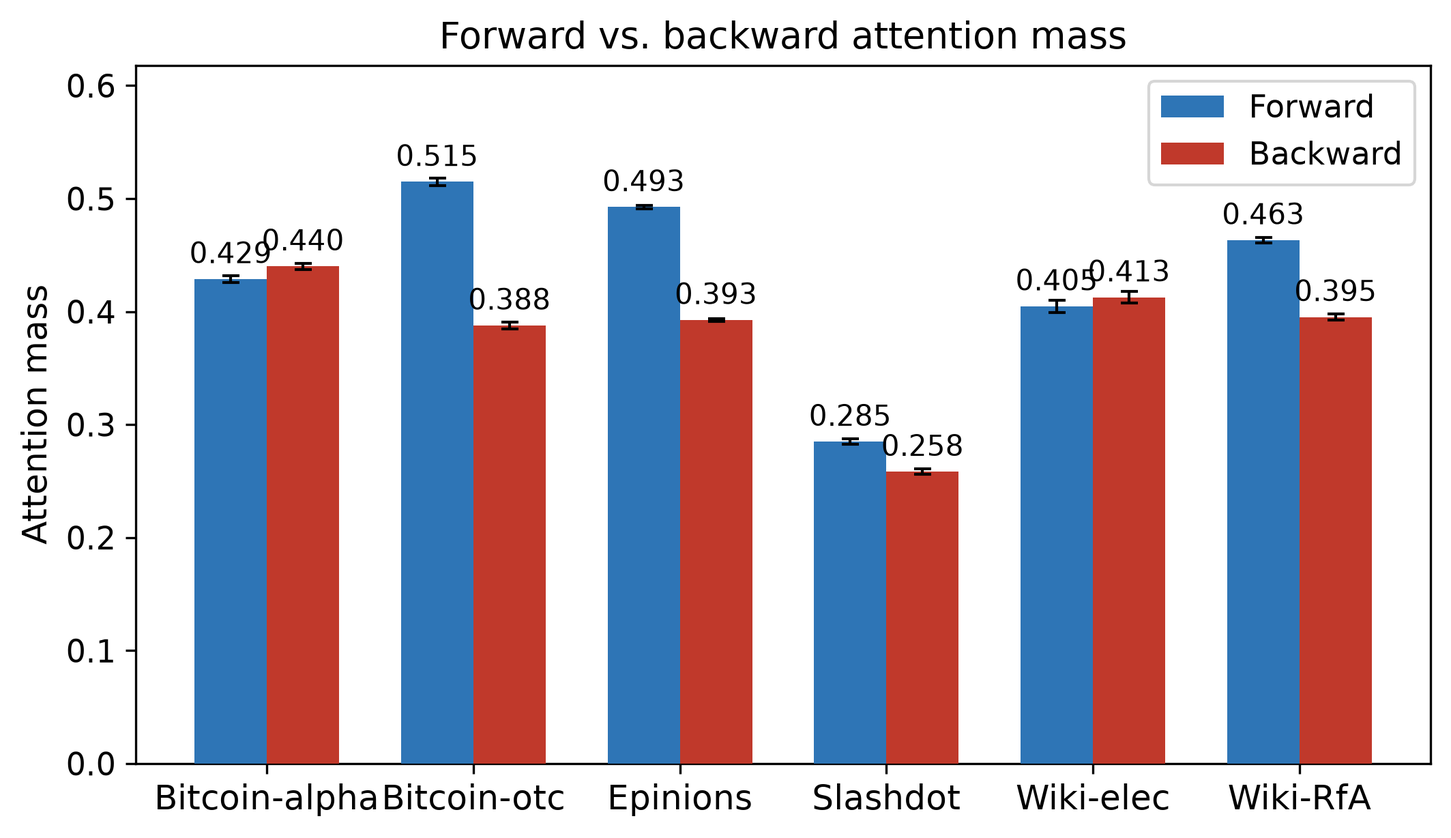
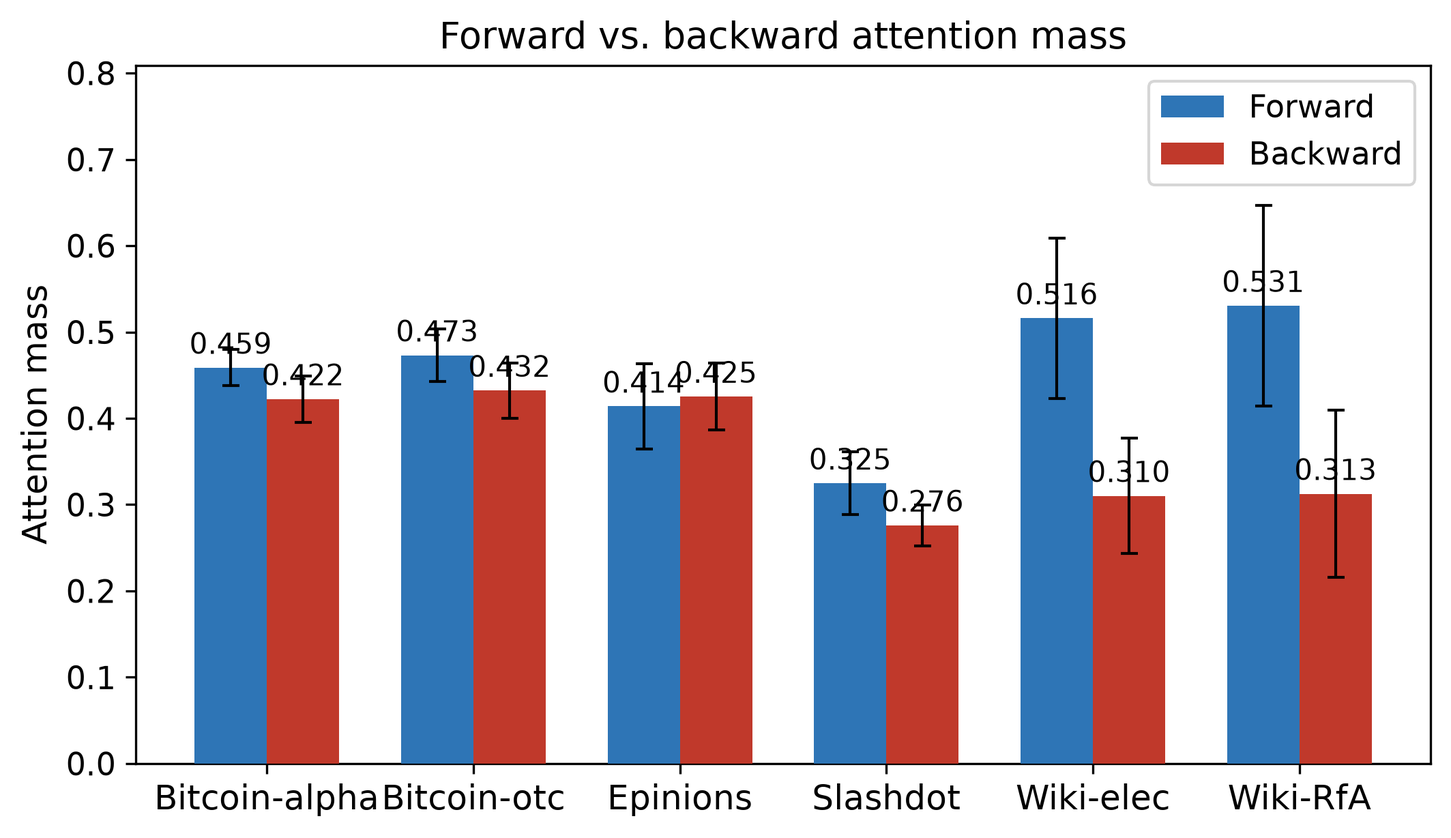
thesis

diff --git a/thesis/thesis.tex b/thesis/thesis.tex
@@ -256,11 +256,11 @@ A per-vertex paired test of a vertex's own out-edge entropy $\Hh_\outdeg(v)$ (it
 
 \subsection{Pewter consistently outperforms baselines}
 
-Pewter treats edge-sign prediction as a per-walk classification task, not a per-vertex embedding lookup. For a target edge, we sample many directed walks through it, tokenize each walk as an alternating sequence of vertex and edge-sign tokens, hide the target edge's sign, and score it with a Transformer trained to recover the hidden sign from the surrounding walk context (Figure~\ref{fig:pipeline-schematic}, Stage 1). Because a given edge typically appears in many sampled walks, this yields multiple per-walk probability estimates for the same edge, which a validation-tuned confidence-weighted vote pools into one edge-level prediction (Figure~\ref{fig:pipeline-schematic}, Stage 2). We evaluate two attention variants over the walk, full and local (\S\ref{sec:methods}), and report each dataset's variant with the higher \emph{validation} AUC (selected before test-set evaluation). Unlike the vertex-centric baselines below, every prediction is conditioned directly on nearby edge signs, not only on the two endpoints' learned representations.
+Pewter treats edge-sign prediction as a per-walk classification task, not a per-vertex embedding lookup. For a target edge, we sample many directed walks through it, tokenize each walk as an alternating sequence of vertex and edge tokens, hide the target edge's sign and identity, and score it with a Transformer trained to recover the hidden sign from the surrounding walk context (Figure~\ref{fig:pipeline-schematic}, Stage 1). Because a given edge typically appears in many sampled walks, this yields multiple per-walk probability estimates for the same edge, which a validation-tuned confidence-weighted vote pools into one edge-level prediction (Figure~\ref{fig:pipeline-schematic}, Stage 2). We evaluate two attention variants over the walk, full and local (\S\ref{sec:methods}), and report local attention, the default variant, as the headline comparison. Unlike the vertex-centric baselines below, every prediction is conditioned directly on nearby vertices and edges, not only on the two endpoints' learned representations.
 
 We compare against eight baselines on the same six datasets and the same held-out edges: two generic message-passing GNNs that ignore edge sign (GCN, GAT), four signed-graph-specific GNNs (SGCN, SiGAT, GS-GNN, SNEA), a recent correlation-modeling method (CopulaLSP), and node2vec as a non-GNN, sign-agnostic reference point (full citations in \S\ref{sec:methods}).
 
-Pewter has a higher test AUC than the best baseline on all six datasets, under both attention variants (Table~\ref{tab:result1}), by a mean of $+3.3$ AUC points and a range of $+1.4$ (Wiki-elec, Wiki-RfA) to $+4.5$ (Epinions) points, comparing each dataset's best Pewter variant against its best baseline; a one-sided paired Wilcoxon signed-rank test across the 10 splits confirms Pewter wins on all 10 splits on every dataset ($p=0.00098$ throughout).
+Pewter has a higher test AUC than the best baseline on all six datasets, under both attention variants (Table~\ref{tab:result1}), by a mean of $+3.3$ AUC points and a range of $+0.9$ (Wiki-elec) to $+4.8$ (Bitcoin-alpha) points, comparing local attention against each dataset's best baseline; a one-sided paired Wilcoxon signed-rank test across the 10 splits confirms Pewter wins on all 10 splits on every dataset ($p=0.00098$ throughout).
 
 \begin{table*}[t!]
 \centering
@@ -285,8 +285,8 @@ GS-GNN & $0.856_{\pm.014}$ & $\mathit{0.721_{\pm.037}}$ & $0.883_{\pm.011}$ & $0
 SNEA & $0.871_{\pm.014}$ & $0.702_{\pm.014}$ & $0.890_{\pm.017}$ & $0.743_{\pm.016}$ & $0.817_{\pm.004}$ & $0.776_{\pm.002}$ & $0.871_{\pm.006}$ & $0.743_{\pm.007}$ & $0.864_{\pm.004}$ & $0.733_{\pm.004}$ & $0.798_{\pm.003}$ & $0.676_{\pm.002}$ \\
 CopulaLSP & $0.848_{\pm.018}$ & $0.711_{\pm.042}$ & $0.856_{\pm.018}$ & $0.770_{\pm.032}$ & $0.857_{\pm.003}$ & $0.782_{\pm.002}$ & $0.868_{\pm.006}$ & $0.740_{\pm.006}$ & $0.843_{\pm.013}$ & $0.706_{\pm.011}$ & $0.813_{\pm.007}$ & $0.701_{\pm.007}$ \\
 \midrule
-Pewter (full attention) & $\mathbf{0.915_{\pm.010}}$ & $0.712_{\pm.015}$ & $\mathit{0.931_{\pm.007}}$ & $\mathit{0.780_{\pm.012}}$ & $\mathit{0.952_{\pm.001}}$ & $\mathit{0.851_{\pm.003}}$ & $\mathit{0.901_{\pm.003}}$ & $\mathit{0.772_{\pm.004}}$ & $\mathbf{0.892_{\pm.003}}$ & $\mathbf{0.758_{\pm.006}}$ & $\mathbf{0.899_{\pm.002}}$ & $\mathit{0.772_{\pm.004}}$ \\
-Pewter (local attention) & $\mathit{0.913_{\pm.017}}$ & $\mathbf{0.759_{\pm.025}}$ & $\mathbf{0.932_{\pm.007}}$ & $\mathbf{0.813_{\pm.014}}$ & $\mathbf{0.954_{\pm.002}}$ & $\mathbf{0.853_{\pm.003}}$ & $\mathbf{0.902_{\pm.003}}$ & $\mathbf{0.775_{\pm.003}}$ & $\mathit{0.891_{\pm.005}}$ & $\mathit{0.758_{\pm.007}}$ & $\mathit{0.897_{\pm.002}}$ & $\mathbf{0.772_{\pm.004}}$ \\
+Pewter (full attention) & $\mathit{0.916_{\pm.014}}$ & $0.708_{\pm.018}$ & $\mathit{0.931_{\pm.008}}$ & $\mathit{0.776_{\pm.007}}$ & $\mathit{0.950_{\pm.002}}$ & $\mathit{0.850_{\pm.006}}$ & $\mathit{0.897_{\pm.004}}$ & $\mathit{0.769_{\pm.005}}$ & $\mathbf{0.893_{\pm.003}}$ & $\mathit{0.758_{\pm.005}}$ & $\mathbf{0.899_{\pm.002}}$ & $\mathit{0.772_{\pm.006}}$ \\
+Pewter (local attention) & $\mathbf{0.919_{\pm.016}}$ & $\mathbf{0.756_{\pm.017}}$ & $\mathbf{0.936_{\pm.006}}$ & $\mathbf{0.813_{\pm.009}}$ & $\mathbf{0.953_{\pm.002}}$ & $\mathbf{0.850_{\pm.005}}$ & $\mathbf{0.898_{\pm.004}}$ & $\mathbf{0.771_{\pm.006}}$ & $\mathit{0.892_{\pm.002}}$ & $\mathbf{0.759_{\pm.004}}$ & $\mathit{0.896_{\pm.002}}$ & $\mathbf{0.773_{\pm.006}}$ \\
 \bottomrule
 \end{tabular}
 \renewcommand{\arraystretch}{1.0}
@@ -308,7 +308,7 @@ We stratified the test edges of each dataset by endpoint entropy, in the same so
 \refstepcounter{ablation}
 \paragraph{\theablation) Proximal attention is sufficient.}
 \label{abl:proximal}
-Restricting attention to a $\pm2$-hop window matches or beats full attention on three of six datasets (Bitcoin-otc $+0.02$pp, Epinions $+0.13$pp, Wiki-elec $+0.15$pp) and trails on the other three (Bitcoin-alpha $-0.12$pp, Wiki-RfA $-0.09$pp, Slashdot $-0.21$pp); both variants appear in Table~\ref{tab:result1}. A two-sided paired Wilcoxon signed-rank test across the 10 splits finds the difference statistically significant on three of six datasets (Epinions $p=0.027$, Wiki-elec $p=0.049$, Slashdot $p=0.002$; not significant on Bitcoin-alpha, Bitcoin-otc, Wiki-RfA), but every one of these differences, significant or not, stays under $0.2$pp -- an order of magnitude below the split-to-split std. The practical reading does not change: local attention costs less than 0.002 in AUC while restricting the per-walk attention computation to a $\pm2$-hop window (\S\ref{sec:complexity}), so it is the better default regardless of which variant happens to win on a given dataset. A direct check finds that target edges have a signed neighbor edge inside their attention window most of the time on all six datasets (Bitcoin-alpha $90.6\%$, Bitcoin-otc $89.2\%$, Epinions $84.6\%$, Slashdot $81.4\%$, Wiki-elec $74.9\%$, Wiki-RfA $87.9\%$), so the window captures real local context rather than an empty span; the lowest rate, on Wiki-elec, still leaves the window empty only when the walk itself runs out of visible context to offer.
+Restricting attention to a $\pm2$-hop window matches or beats full attention on four of six datasets (Bitcoin-alpha $+0.32$pp, Bitcoin-otc $+0.46$pp, Epinions $+0.36$pp, Wiki-elec $+0.04$pp) and trails on the other two (Wiki-RfA $-0.07$pp, Slashdot $-0.27$pp); both variants appear in Table~\ref{tab:result1}. A two-sided paired Wilcoxon signed-rank test across the 10 splits finds the difference statistically significant on three of six datasets (Bitcoin-otc $p=0.002$, Epinions $p=0.010$, Slashdot $p=0.010$; not significant on Bitcoin-alpha, Wiki-elec, Wiki-RfA), but every one of these differences, significant or not, stays under $0.5$pp. The practical reading does not change: local attention costs at most 0.003 in AUC while restricting the per-walk attention computation to a $\pm2$-hop window (\S\ref{sec:complexity}), so it is the better default regardless of which variant happens to win on a given dataset. A direct check finds that target edges have a signed neighbor edge inside their attention window most of the time on all six datasets (Bitcoin-alpha $90.6\%$, Bitcoin-otc $89.2\%$, Epinions $84.6\%$, Slashdot $81.4\%$, Wiki-elec $74.9\%$, Wiki-RfA $87.9\%$), so the window captures real local context rather than an empty span; the lowest rate, on Wiki-elec, still leaves the window empty only when the walk itself runs out of visible context to offer.
 
 % Dropped for submission (2026-08-23): the two token-masking ablations (removing the
 % vertex token / removing the edge token) are commented out, not deleted -- restore by
@@ -328,17 +328,50 @@ Restricting attention to a $\pm2$-hop window matches or beats full attention on 
 \refstepcounter{ablation}
 \paragraph{\theablation) The aggregator weighting is nearly irrelevant.}
 \label{abl:aggregator}
-We compare the confidence weighting against 11 alternatives depending only on $q$, including the uniform mean, log-probability, certainty, Bernoulli-entropy and Fisher-information/inverse-variance forms (Table~\ref{tab:ablationB}). Across all 11 functions on all 6 datasets the full spread is under $0.0018$ AUC -- an order of magnitude below the split-to-split std -- and the Fisher-information form is best on Epinions and Slashdot rather than our default. We report this as a null result: the gain of Pewter comes from the per-walk edge-centric representation, not from how the walks are pooled, and the aggregator should be treated as a design detail rather than as a contribution.
+We compare the confidence weighting against 11 alternatives depending only on $q$, including the uniform mean, log-probability, certainty, Bernoulli-entropy and Fisher-information/inverse-variance forms (Table~\ref{tab:ablationB}). Across all 11 functions on all 6 datasets the full spread is under $0.0025$ AUC, and the Fisher-information form is best on Epinions, Wiki-elec, Wiki-RfA and Slashdot rather than our default. We report this as a null result: the gain of Pewter comes from the per-walk edge-centric representation, not from how the walks are pooled, and the aggregator should be treated as a design detail rather than as a contribution.
 
 \refstepcounter{ablation}
 \paragraph{\theablation) A single walk is already enough.}
 \label{abl:singlewalk}
-A given edge is scored by aggregating over hundreds to thousands of walk occurrences, raising a natural objection: is the reported gain just ensembling? We recompute test AUC as a function of $K$, the number of walk occurrences sampled per edge (uniform mean over $K$ occurrences drawn at random without replacement, mean $\pm$ std over the same 10 splits), sweeping $K=1,2,4,\ldots$ up to each dataset's own saturation point. A single sampled walk already outperforms the strongest baseline on all six datasets, while performance generally saturates after approximately 8--32 walks. Thus, the improvement does not depend on a large walk ensemble (Table~\ref{tab:result1}).  rises only slightly and quickly plateaus: the gap between $K=1$ and the saturated ceiling is under $1$pp on every dataset. The representation, not the ensembling, carries the result; aggregating over more walk occurrences is a small, genuine, but secondary gain. The number of walk occurrences $K_{uv}$ available to aggregate over varies by edge and by dataset, averaging $5.8$ on Wiki-elec, $13.4$ on Epinions, $13.5$ on Wiki-RfA, $35.1$ on Slashdot, $179.6$ on Bitcoin-otc, and $217.6$ on Bitcoin-alpha.
+A given edge is scored by aggregating over hundreds to thousands of walk occurrences, raising a natural objection: is the reported gain just ensembling? We recompute test AUC as a function of $K$, the number of walk occurrences sampled per edge (uniform mean over $K$ occurrences drawn at random without replacement, mean $\pm$ std over the same 10 splits), sweeping $K=1,2,4,\ldots$ up to each dataset's own saturation point. A single sampled walk already outperforms the strongest baseline on all six datasets, while performance generally saturates after approximately 8--32 walks. Thus, the improvement does not depend on a large walk ensemble (Table~\ref{tab:result1}). AUC rises only slightly and quickly plateaus: the gap between $K=1$ and the saturated ceiling is under $1.3$pp on every dataset. The representation, not the ensembling, carries the result; aggregating over more walk occurrences is a small, genuine, but secondary gain. The number of walk occurrences $K_{uv}$ available to aggregate over varies by edge and by dataset, averaging $5.8$ on Wiki-elec, $13.4$ on Epinions, $13.5$ on Wiki-RfA, $35.1$ on Slashdot, $179.6$ on Bitcoin-otc, and $217.6$ on Bitcoin-alpha.
 
 \refstepcounter{ablation}
 \paragraph{\theablation) Randomizing edge direction.}
 \label{abl:dirflip}
-Each sampled walk is randomly flipped (fixed per walk, whole-sequence reversal, so every edge keeps its true endpoints and sign but source/target order is swapped for that occurrence), and the model is retrained from scratch. The cost is small on four datasets (Bitcoin-alpha $-0.9$pp, Bitcoin-otc $-1.1$pp, Epinions $-0.7$pp, Slashdot $-2.2$pp) and larger on the other two (Wiki-elec $-4.3$pp, Wiki-RfA $-5.3$pp); all six drops are significant (one-sided paired Wilcoxon across the 10 splits, $p\le0.042$, $p=0.00098$ on five of six).
+Each sampled walk is randomly flipped (fixed per walk, whole-sequence reversal, so every edge keeps its true endpoints and sign but source/target order is swapped for that occurrence), and the model is retrained from scratch. The cost is small on four datasets (Bitcoin-alpha $-0.5$pp, Bitcoin-otc $-0.7$pp, Epinions $-0.7$pp, Slashdot $-2.1$pp) and larger on the other two (Wiki-elec $-2.9$pp, Wiki-RfA $-3.4$pp); the drop is significant on five of six datasets (one-sided paired Wilcoxon across the 10 splits, $p=0.00098$), but not on Bitcoin-alpha ($p=0.14$).
+
+\refstepcounter{ablation}
+\paragraph{\theablation) Vertices, edge identities and edge signs.}
+\label{abl:visibility}
+We retrain Pewter with every combination of three inputs hidden, in training and evaluation alike: the vertex tokens, the identities of the context edges, and the signs of the context edges. Hidden inputs are replaced by placeholders, so each walk keeps its length and layout, and the target edge stays hidden as always (Table~\ref{tab:visibility}). When vertex tokens are visible, hiding the context edges' identity, sign, or both changes test AUC by under $0.5$pp on every dataset (significant only on Bitcoin-otc; one-sided paired Wilcoxon across the 10 splits), while hiding the vertex tokens costs $2.7$ to $37.5$pp ($p=0.00098$ in every such cell). How much the edges recover without vertices depends on the dataset: their identities keep the model within $2.7$--$6.1$pp of the full model on Bitcoin-alpha, Bitcoin-otc, Epinions and Slashdot, but not on the two Wikipedia vote graphs (Wiki-elec $-24.5$pp, Wiki-RfA $-11.0$pp). The learned identity embeddings thus carry most of the signal, and an edge's identity can absorb much of what its endpoints carry, provided the edge is seen often enough to learn it: an edge appears in $5.8$ walks on average on Wiki-elec against roughly $200$ on the Bitcoin graphs (Ablation~\ref{abl:singlewalk}). Together with the pair-only ablation (Ablation~\ref{abl:pair}), this suggests that the learned embeddings provide most of Pewter's advantage, with the local walk context adding a smaller but consistent gain on top, and the direction of that context mattering (Ablation~\ref{abl:dirflip}).
+
+\begin{table}[h!]
+\centering
+\scriptsize
+\caption{Ablation~\ref{abl:visibility}: test AUC (mean $\pm$ std, 10 splits) with vertex tokens (V), context-edge identities (I) and context-edge signs (S) visible (\checkmark) or hidden (--). The first row is Pewter (local attention).}
+\label{tab:visibility}
+\resizebox{\linewidth}{!}{%
+\begin{tabular}{ccccccccc}
+\toprule
+V & I & S & Bitcoin-alpha & Bitcoin-otc & Epinions & Wiki-elec & Wiki-RfA & Slashdot \\
+\midrule
+\checkmark & \checkmark & \checkmark & $0.919_{\pm0.016}$ & $0.936_{\pm0.006}$ & $0.953_{\pm0.002}$ & $0.898_{\pm0.004}$ & $0.892_{\pm0.002}$ & $0.896_{\pm0.002}$ \\
+\checkmark & -- & \checkmark & $0.920_{\pm0.013}$ & $0.936_{\pm0.006}$ & $0.954_{\pm0.001}$ & $0.899_{\pm0.005}$ & $0.891_{\pm0.005}$ & $0.896_{\pm0.002}$ \\
+\checkmark & \checkmark & -- & $0.916_{\pm0.012}$ & $0.931_{\pm0.003}$ & $0.953_{\pm0.001}$ & $0.899_{\pm0.005}$ & $0.891_{\pm0.004}$ & $0.896_{\pm0.001}$ \\
+\checkmark & -- & -- & $0.917_{\pm0.012}$ & $0.933_{\pm0.004}$ & $0.953_{\pm0.001}$ & $0.899_{\pm0.005}$ & $0.891_{\pm0.004}$ & $0.897_{\pm0.002}$ \\
+-- & \checkmark & \checkmark & $0.892_{\pm0.009}$ & $0.908_{\pm0.008}$ & $0.912_{\pm0.002}$ & $0.652_{\pm0.035}$ & $0.782_{\pm0.026}$ & $0.835_{\pm0.004}$ \\
+-- & \checkmark & -- & $0.889_{\pm0.010}$ & $0.899_{\pm0.008}$ & $0.910_{\pm0.002}$ & $0.596_{\pm0.063}$ & $0.737_{\pm0.090}$ & $0.839_{\pm0.004}$ \\
+-- & -- & \checkmark & $0.729_{\pm0.023}$ & $0.797_{\pm0.009}$ & $0.682_{\pm0.004}$ & $0.568_{\pm0.006}$ & $0.590_{\pm0.006}$ & $0.674_{\pm0.003}$ \\
+-- & -- & -- & $0.583_{\pm0.039}$ & $0.589_{\pm0.016}$ & $0.647_{\pm0.009}$ & $0.548_{\pm0.034}$ & $0.560_{\pm0.015}$ & $0.521_{\pm0.008}$ \\
+\bottomrule
+\end{tabular}%
+}
+\end{table}
+
+\refstepcounter{ablation}
+\paragraph{\theablation) Pair-only attention.}
+\label{abl:pair}
+We restrict attention so that every edge token attends only to itself and its two endpoint vertices, and every vertex token only to itself; the target edge is then predicted from its two endpoints alone, with no other walk context. This costs $0.6$ to $3.2$pp on all six datasets (Bitcoin-alpha $-1.8$pp, Bitcoin-otc $-2.0$pp, Epinions $-0.8$pp, Wiki-elec $-0.7$pp, Wiki-RfA $-0.6$pp, Slashdot $-3.2$pp; one-sided paired Wilcoxon across the 10 splits, $p\le0.005$), yet the pair-only model still beats the best baseline on five of six datasets ($p\le0.01$; Wiki-elec $+0.3$pp, $p=0.08$). The endpoint embeddings, learned end to end from the masked-sign objective rather than computed by WL-bounded neighborhood aggregation, thus already account for most of Pewter's advantage, and the local walk context adds the rest.
 
 % Dropped for submission (2026-08-23), commented out not deleted -- original version,
 % restored verbatim after an intermediate rewrite; leaned on the two now-dropped masking
@@ -347,16 +380,16 @@ Each sampled walk is randomly flipped (fixed per walk, whole-sequence reversal, 
 
 \subsection{Complexity}
 \label{sec:complexity}
-Scoring one target edge $(u,v)$ at inference time runs the per-walk transformer on each of the $K_{uv}$ walk occurrences sampled for it, then combines their scores. A single forward pass costs $O(L^2d)$ under full attention or $O(Lwd)$ under a windowed implementation of the local window. $K_{uv}$ varies by edge and by dataset (Ablation~\ref{abl:singlewalk}). Combining the $K_{uv}$ scores costs $O(K_{uv})$, via a closed-form aggregator (Ablation~\ref{abl:aggregator}) with parameters fit once per dataset offline. Building the walk corpus is a separate, one-time preprocessing cost: the coverage guarantee requires a total sampling budget $M=\kappa|E|$ for a small dataset-chosen constant $\kappa\in[1,5]$ (\S\ref{sec:setup}), so corpus construction costs $O(|E|)$ up to $\kappa$. In wall-clock terms on a single NVIDIA L40S GPU, a full training run takes roughly 2 to 40 minutes depending on dataset size; post-hoc scoring and aggregation adds under 1.5 minutes, of which pure test-set inference is 1 to 14 seconds.
+Scoring one target edge $(u,v)$ at inference time runs the per-walk transformer on each of the $K_{uv}$ walk occurrences sampled for it, then combines their scores. A single forward pass costs $O(L^2d)$ under full attention or $O(Lwd)$ under a windowed implementation of the local window. $K_{uv}$ varies by edge and by dataset (Ablation~\ref{abl:singlewalk}). Combining the $K_{uv}$ scores costs $O(K_{uv})$, via a closed-form aggregator (Ablation~\ref{abl:aggregator}) with parameters fit once per dataset offline. Building the walk corpus is a separate, one-time preprocessing cost: the coverage guarantee requires a total sampling budget $M=\kappa|E|$ for a small dataset-chosen constant $\kappa\in[1,5]$ (\S\ref{sec:setup}), so corpus construction costs $O(|E|)$ up to $\kappa$. In wall-clock terms on a single NVIDIA L40S GPU, a full training run takes roughly 4 to 70 minutes depending on dataset size; post-hoc scoring and aggregation adds under 1.5 minutes, of which pure test-set inference is 1 to 14 seconds.
 
 \subsection{Where Pewter's attention goes}
 For every masked target-edge token we measure how attention mass at layer 0 splits between the source side ($u$, backward in the walk) and the target side ($v$, forward), and between vertex- and edge-token roles (Figure~\ref{fig:attndir}). This is a property of the trained attention weights, and a slightly different question from the entropy asymmetry of Section~\ref{sec:empconf}(A): one describes what the data contains, the other where the model looks. 
 
-The split is heterogeneous, and significant on every dataset (cluster-robust 95\% CI on the forward-minus-backward difference excludes zero on all six, cluster = target edge; confirmed by a distribution-free Wilcoxon signed-rank test on the same per-edge cluster means). Two datasets are forward-dominant (Bitcoin-alpha $0.443$ forward vs.\ $0.411$ backward; Slashdot $0.417$ vs.\ $0.363$), and four are backward-dominant (Bitcoin-otc $0.403$ vs.\ $0.445$; Epinions $0.376$ vs.\ $0.452$; Wiki-elec $0.311$ vs.\ $0.432$; Wiki-RfA $0.189$ vs.\ $0.557$). 
+We report each quantity as the mean over the 10 models trained on the 10 splits and test it across them (two-sided paired Wilcoxon signed-rank test). Where attention prefers a side, it is the target side: forward mass exceeds backward mass on Bitcoin-alpha ($0.459$ vs.\ $0.422$, $p=0.014$), Wiki-elec ($0.516$ vs.\ $0.310$, $p=0.004$), Wiki-RfA ($0.531$ vs.\ $0.313$, $p=0.014$) and Slashdot ($0.325$ vs.\ $0.276$, $p=0.002$); Bitcoin-otc leans forward without reaching significance ($p=0.064$) and Epinions shows no preference. 
 
-Attention also splits by token role, between vertex tokens and edge tokens (Figure~\ref{fig:attndir}C). This split is heterogeneous and significant on every dataset (cluster-robust 95\% CI on the vertex-minus-edge difference excludes zero on all six). Epinions, Wiki-elec, Bitcoin-otc, and Wiki-RfA are vertex-dominant (Epinions most strongly, $0.505$ vertex vs.\ $0.320$ edge), while Bitcoin-alpha and Slashdot are edge-dominant ($0.365$ vs.\ $0.488$ and $0.278$ vs.\ $0.487$).
+Attention also splits by token role, between vertex tokens and edge tokens (Figure~\ref{fig:attndir}C). Where it prefers a role, it is the vertex tokens: vertex mass exceeds edge mass on Bitcoin-alpha ($0.554$ vs.\ $0.327$, $p=0.004$), Bitcoin-otc ($0.551$ vs.\ $0.355$, $p=0.002$), Wiki-elec ($0.592$ vs.\ $0.234$, $p=0.002$) and Wiki-RfA ($0.516$ vs.\ $0.327$, $p=0.002$), while Epinions and Slashdot show no significant preference.
 
-Attention allocation describes where the model places computational weight and should not by itself be interpreted as direct measurement of feature importance. We therefore complement attention analysis with Shapley contributions~\citep{shapley1953value} to the masked target's predicted sign probability (Figure~\ref{fig:attndir}D), decomposed by hop and direction within the $\pm2$-hop local window; "significant" here means the cluster-robust 95\% CI on the forward-minus-backward difference excludes zero. The two measures broadly agree in direction, except on Wiki-elec and Wiki-RfA, where Shapley contribution is significantly forward-dominant while raw attention mass is backward-dominant.
+Attention allocation describes where the model places computational weight and should not by itself be interpreted as direct measurement of feature importance. We therefore complement attention analysis with Shapley contributions~\citep{shapley1953value} to the masked target's predicted sign probability (Figure~\ref{fig:attndir}D), decomposed by hop and direction within the $\pm2$-hop local window, with a context edge removed by hiding its identity and sign. The contribution decays with distance on every dataset: hop-1 edges contribute $1.6$ to $3.2$ times as much as hop-2 edges ($p=0.002$ on all six). At hop 1, forward edges contribute more than backward edges on Bitcoin-otc ($p=0.027$), Wiki-elec, Wiki-RfA and Slashdot ($p=0.002$), with no significant difference on Bitcoin-alpha and Epinions. The two measures agree in direction on every dataset, and both are significantly forward-dominant on Wiki-elec, Wiki-RfA and Slashdot.
 
 \begin{figure}[t!]
 \centering
@@ -404,24 +437,24 @@ the last step being the chain rule for conditional entropy. Since any GNN lies i
 \begin{table}[h!]
 \centering
 \scriptsize
-\caption{Ablation~\ref{abl:aggregator}: test AUC (mean $\pm$ std, 10 splits) for Pewter (local attention) under 11 aggregator weight functions $w(q)$, each depending only on the walk's predicted probability $q$. Bold marks the best per dataset, italic the second best. The full spread across all functions and datasets is under $0.0018$ AUC.}
+\caption{Ablation~\ref{abl:aggregator}: test AUC (mean $\pm$ std, 10 splits) for Pewter (local attention) under 11 aggregator weight functions $w(q)$, each depending only on the walk's predicted probability $q$. Bold marks the best per dataset, italic the second best. The full spread across all functions and datasets is under $0.0025$ AUC.}
 \label{tab:ablationB}
 \resizebox{\linewidth}{!}{%
 \begin{tabular}{lcccccc}
 \toprule
 Weight $w(q)$ & Bitcoin-alpha & Bitcoin-otc & Epinions & Wiki-elec & Wiki-RfA & Slashdot \\
 \midrule
-Uniform (mean) & $0.913_{\pm0.017}$ & $0.932_{\pm0.006}$ & $0.953_{\pm0.001}$ & $0.902_{\pm0.003}$ & $0.891_{\pm0.005}$ & $0.897_{\pm0.002}$ \\
-$q^b$ & $\mathbf{0.914_{\pm0.017}}$ & $0.932_{\pm0.007}$ & $0.953_{\pm0.001}$ & $\mathbf{0.902_{\pm0.003}}$ & $0.891_{\pm0.005}$ & $0.897_{\pm0.002}$ \\
-$\exp(bq)$ & $0.913_{\pm0.018}$ & $\mathbf{0.932_{\pm0.007}}$ & $0.953_{\pm0.001}$ & $0.902_{\pm0.003}$ & $0.891_{\pm0.005}$ & $0.897_{\pm0.002}$ \\
-$|q-0.5|^b$ & $0.913_{\pm0.017}$ & $\mathit{0.932_{\pm0.007}}$ & $0.953_{\pm0.002}$ & $0.902_{\pm0.003}$ & $0.891_{\pm0.005}$ & $0.897_{\pm0.002}$ \\
-$\mathrm{sig}(b(q-0.5))$ & $\mathit{0.914_{\pm0.017}}$ & $0.932_{\pm0.007}$ & $0.953_{\pm0.001}$ & $0.902_{\pm0.003}$ & $0.891_{\pm0.005}$ & $0.897_{\pm0.002}$ \\
-$(-\log q)^b$ & $0.912_{\pm0.017}$ & $0.932_{\pm0.007}$ & $0.953_{\pm0.001}$ & $0.902_{\pm0.003}$ & $0.891_{\pm0.005}$ & $0.897_{\pm0.002}$ \\
-$|\mathrm{logit}(q)|^b$ (default) & $0.913_{\pm0.017}$ & $0.932_{\pm0.007}$ & $0.954_{\pm0.002}$ & $0.902_{\pm0.003}$ & $0.891_{\pm0.005}$ & $0.897_{\pm0.002}$ \\
-$(\ln2-H(q))^b$ & $0.913_{\pm0.017}$ & $0.932_{\pm0.007}$ & $0.953_{\pm0.002}$ & $0.902_{\pm0.003}$ & $0.891_{\pm0.005}$ & $0.897_{\pm0.002}$ \\
-$\exp(-aH(q))$ & $0.913_{\pm0.017}$ & $0.932_{\pm0.006}$ & $\mathit{0.954_{\pm0.002}}$ & $0.902_{\pm0.003}$ & $\mathbf{0.891_{\pm0.005}}$ & $\mathit{0.897_{\pm0.002}}$ \\
-$(q(1-q))^{-b}$ (Fisher-info) & $0.913_{\pm0.017}$ & $0.932_{\pm0.007}$ & $\mathbf{0.954_{\pm0.002}}$ & $\mathit{0.902_{\pm0.003}}$ & $\mathit{0.891_{\pm0.005}}$ & $\mathbf{0.897_{\pm0.002}}$ \\
-$\max(q,1-q)^b$ & $0.913_{\pm0.017}$ & $0.932_{\pm0.006}$ & $0.953_{\pm0.002}$ & $0.902_{\pm0.003}$ & $0.891_{\pm0.005}$ & $0.897_{\pm0.002}$ \\
+Uniform (mean) & $0.918_{\pm0.016}$ & $\mathit{0.936_{\pm0.006}}$ & $0.951_{\pm0.001}$ & $0.897_{\pm0.004}$ & $0.892_{\pm0.002}$ & $0.896_{\pm0.002}$ \\
+$q^b$ & $0.918_{\pm0.017}$ & $0.935_{\pm0.006}$ & $0.952_{\pm0.001}$ & $0.898_{\pm0.004}$ & $0.892_{\pm0.002}$ & $0.896_{\pm0.002}$ \\
+$\exp(bq)$ & $0.918_{\pm0.016}$ & $0.935_{\pm0.006}$ & $0.952_{\pm0.001}$ & $0.897_{\pm0.004}$ & $0.892_{\pm0.002}$ & $0.896_{\pm0.002}$ \\
+$|q-0.5|^b$ & $0.919_{\pm0.016}$ & $0.936_{\pm0.006}$ & $0.953_{\pm0.002}$ & $0.898_{\pm0.004}$ & $0.892_{\pm0.002}$ & $0.896_{\pm0.002}$ \\
+$\mathrm{sig}(b(q-0.5))$ & $0.919_{\pm0.016}$ & $\mathbf{0.936_{\pm0.006}}$ & $0.951_{\pm0.001}$ & $0.897_{\pm0.004}$ & $0.892_{\pm0.002}$ & $0.896_{\pm0.002}$ \\
+$(-\log q)^b$ & $\mathbf{0.919_{\pm0.016}}$ & $0.935_{\pm0.006}$ & $0.953_{\pm0.002}$ & $0.897_{\pm0.004}$ & $0.892_{\pm0.002}$ & $0.896_{\pm0.002}$ \\
+$|\mathrm{logit}(q)|^b$ (default) & $0.919_{\pm0.016}$ & $0.936_{\pm0.006}$ & $\mathit{0.953_{\pm0.002}}$ & $0.898_{\pm0.004}$ & $0.892_{\pm0.002}$ & $0.896_{\pm0.002}$ \\
+$(\ln2-H(q))^b$ & $0.919_{\pm0.015}$ & $0.936_{\pm0.006}$ & $0.953_{\pm0.002}$ & $0.898_{\pm0.004}$ & $0.892_{\pm0.002}$ & $0.896_{\pm0.002}$ \\
+$\exp(-aH(q))$ & $0.919_{\pm0.016}$ & $0.935_{\pm0.006}$ & $0.953_{\pm0.002}$ & $\mathit{0.898_{\pm0.004}}$ & $\mathit{0.892_{\pm0.002}}$ & $\mathit{0.896_{\pm0.002}}$ \\
+$(q(1-q))^{-b}$ (Fisher-info) & $\mathit{0.919_{\pm0.015}}$ & $0.935_{\pm0.006}$ & $\mathbf{0.954_{\pm0.002}}$ & $\mathbf{0.898_{\pm0.004}}$ & $\mathbf{0.892_{\pm0.002}}$ & $\mathbf{0.896_{\pm0.002}}$ \\
+$\max(q,1-q)^b$ & $0.919_{\pm0.016}$ & $0.936_{\pm0.006}$ & $0.953_{\pm0.002}$ & $0.898_{\pm0.004}$ & $0.892_{\pm0.002}$ & $0.896_{\pm0.002}$ \\
 \bottomrule
 \end{tabular}%
 }

diff --git a/experiments/edge_identity_tokens/eid_attention_multiseed_figure_data.py b/experiments/edge_identity_tokens/eid_attention_multiseed_figure_data.py
@@ -1,0 +1,55 @@
+"""Thesis attention figure, panels B-D: mean over the 10 trained H3 models (splits 42-51), error bars =
+std across models (decided 2026-10-20; WSDM used one model, split 42, with SE across target edges).
+Panel A stays the split-42 Bitcoin-alpha per-head grid (heads are not comparable across models).
+
+Inputs: outputs/attn_shap_multiseed/{attention,shap}_per_seed.csv (attn_shap_multiseed.py --summarise).
+Writes, in the schemas the unchanged WSDM plot scripts read (thesis_figure_data/):
+  attndir_panelBC_summary.csv, attndir_panelBC_se.csv, shap_edge_directionality.csv
+The WSDM panel B/C plot scripts draw yerr = 1.96 * <x>_se, panel D draws yerr = cluster_se; to get
++-1 std across models we store <x>_se = std / 1.96 and cluster_se = std. The split-42 versions are kept
+as *_s42.csv.
+
+Usage: .venv/bin/python experiments/edge_identity_tokens/eid_attention_multiseed_figure_data.py
+"""
+import os
+
+import pandas as pd
+
+ROOT = os.path.dirname(os.path.dirname(os.path.dirname(os.path.abspath(__file__))))
+SRC = os.path.join(ROOT, "outputs", "attn_shap_multiseed")
+OUT = os.path.join(ROOT, "experiments", "edge_identity_tokens", "thesis_figure_data")
+DATASETS = ["bitcoin-alpha", "bitcoin-otc", "epinions", "slashdot090221", "wiki-elec", "wiki-rfa"]
+
+
+def main():
+    a = pd.read_csv(os.path.join(SRC, "attention_per_seed.csv"))
+    a = a[a.model == "h3"]
+    nhead = pd.read_csv(os.path.join(OUT, "attndir_panelBC_summary_s42.csv")).set_index("dataset")["nhead"]
+    summ, se = [], []
+    for ds in DATASETS:
+        d = a[a.dataset == ds]
+        assert len(d) == 10, (ds, len(d))
+        m, s = d[["fwd", "bwd", "node", "edge"]].mean(), d[["fwd", "bwd", "node", "edge"]].std()
+        summ.append({"dataset": ds, "layer": 0, "nhead": int(nhead[ds]), "forward": m.fwd, "backward": m.bwd,
+                     "node": m.node, "edge": m.edge, "self": 1 - m.fwd - m.bwd})
+        row = {"dataset": ds}
+        for name, col in (("forward", "fwd"), ("backward", "bwd"), ("node", "node"), ("edge", "edge")):
+            row[f"{name}_mean"], row[f"{name}_se"] = m[col], s[col] / 1.96
+        se.append(row)
+    pd.DataFrame(summ).to_csv(os.path.join(OUT, "attndir_panelBC_summary.csv"), index=False)
+    pd.DataFrame(se).to_csv(os.path.join(OUT, "attndir_panelBC_se.csv"), index=False)
+
+    s = pd.read_csv(os.path.join(SRC, "shap_per_seed.csv"))
+    s = s[(s.model == "h3") & (s.shap_remove == "both")]
+    g = s.groupby(["dataset", "direction", "hop"])
+    shap = g.agg(mean_abs_shap=("mean_abs_shap", "mean"), cluster_se=("mean_abs_shap", "std"),
+                 n_obs=("n_obs", "sum"), n_clusters=("seed", "nunique")).reset_index()
+    assert (shap.n_clusters == 10).all()
+    order = {ds: i for i, ds in enumerate(DATASETS)}
+    shap = shap.sort_values(["dataset", "direction", "hop"], key=lambda c: c.map(order) if c.name == "dataset" else c)
+    shap.to_csv(os.path.join(OUT, "shap_edge_directionality.csv"), index=False)
+    print(f"wrote {OUT}/attndir_panelBC_summary.csv, attndir_panelBC_se.csv, shap_edge_directionality.csv")
+
+
+if __name__ == "__main__":
+    main()

diff --git a/experiments/edge_identity_tokens/attn_headgrid_multiseed.py b/experiments/edge_identity_tokens/attn_headgrid_multiseed.py
@@ -1,0 +1,43 @@
+"""Per-head layer-0 attention profiles (panel A data) for every H3 model: 6 datasets x splits 42-51.
+Used to choose which single model panel A shows. Same measurement as eid_attention_shap.attention_pass
+(20,000 test walks, rng 42). Output: outputs/attn_shap_multiseed/h3_pmf/<ds>_s<seed>.npz (pmf [nlayers,
+nhead, 2*max_dist+1], max_dist, nhead).
+
+Usage: .venv/bin/python experiments/edge_identity_tokens/attn_headgrid_multiseed.py --device 0 --jobs ds:seed ...
+"""
+import argparse
+import os
+import sys
+
+import numpy as np
+import torch
+
+ROOT = os.path.dirname(os.path.dirname(os.path.dirname(os.path.abspath(__file__))))
+sys.path.insert(0, ROOT)
+from experiments.edge_identity_tokens import eid_attention_shap as eas  # noqa: E402
+
+OUT = os.path.join(ROOT, "outputs", "attn_shap_multiseed", "h3_pmf")
+
+
+def main():
+    ap = argparse.ArgumentParser()
+    ap.add_argument("--device", default="0")
+    ap.add_argument("--jobs", nargs="+", required=True)
+    args = ap.parse_args()
+    dev = torch.device(f"cuda:{args.device}")
+    os.makedirs(OUT, exist_ok=True)
+    for job in args.jobs:
+        ds, seed = job.rsplit(":", 1)
+        path = os.path.join(OUT, f"{ds}_s{seed}.npz")
+        if os.path.exists(path):
+            continue
+        lit, ds_test, idx, collate, _ = eas.load(ds, dev, seed=int(seed))
+        a = eas.attention_pass(ds, lit, ds_test, idx, collate, dev)
+        np.savez(path, pmf=a["pmf"], max_dist=a["max_dist"], nhead=a["nhead"])
+        print(f"[DONE] {ds} s{seed}", flush=True)
+        del lit
+        torch.cuda.empty_cache()
+
+
+if __name__ == "__main__":
+    main()

diff --git a/experiments/edge_identity_tokens/eid_delta_regression.py b/experiments/edge_identity_tokens/eid_delta_regression.py
@@ -1,0 +1,22 @@
+"""Thesis version of the delta-heatmap entropy regression (WSDM Sec. "The gain concentrates where
+the entropy is high"): scripts/paper_figures/delta_heatmap_entropy_regression.py run unchanged,
+with Pewter(local)'s per-seed predictions swapped for H3's (extract_eid_entropy_heatmaps.h3_raw_seed).
+
+Usage: .venv/bin/python experiments/edge_identity_tokens/eid_delta_regression.py
+Output: experiments/edge_identity_tokens/thesis_figure_data/eid_delta_heatmap_entropy_regression.csv
+"""
+import os
+import sys
+
+ROOT = os.path.dirname(os.path.dirname(os.path.dirname(os.path.abspath(__file__))))
+sys.path.insert(0, ROOT)
+sys.path.insert(0, os.path.join(ROOT, "scripts", "paper_figures"))
+
+import delta_heatmap_entropy_regression as reg  # noqa: E402
+from experiments.edge_identity_tokens.extract_eid_entropy_heatmaps import h3_raw_seed  # noqa: E402
+
+reg.walk_raw_seed = lambda ds, seed, variant: h3_raw_seed(ds, seed)
+reg.OUT_CSV = "experiments/edge_identity_tokens/thesis_figure_data/eid_delta_heatmap_entropy_regression.csv"
+
+if __name__ == "__main__":
+    reg.main()

diff --git a/scripts/paper_figures/plot_attndir_panelC_nodeedge.py b/scripts/paper_figures/plot_attndir_panelC_nodeedge.py
@@ -24,6 +24,7 @@ import numpy as np
 
 IN_CSV = "aaai2027/figure_data/attndir_panelBC_summary.csv"
 SE_CSV = "aaai2027/figure_data/attndir_panelBC_se.csv"
+YLIM_INCLUDE_ERR = False  # True: y-axis leaves room for the error bars (thesis: larger across-model std bars)
 OUT_PNG = "aaai2027/figures/attndir_panelC_nodeedge.png"
 
 DATASET_ORDER = ["bitcoin-alpha", "bitcoin-otc", "epinions", "slashdot090221", "wiki-elec", "wiki-rfa"]
@@ -59,7 +60,8 @@ def main():
         ax.text(bar.get_x() + bar.get_width() / 2, bar.get_height() + 0.008,
                  f"{bar.get_height():.3f}", ha="center", va="bottom", fontsize=10)
 
-    ax.set_ylim(0, max(node + edge) * 1.2)
+    top = max(v + e for v, e in zip(node + edge, node_err + edge_err)) * 1.25 if YLIM_INCLUDE_ERR else max(node + edge) * 1.2
+    ax.set_ylim(0, top)
     ax.set_xticks(x)
     ax.set_xticklabels([DISPLAY_LABEL.get(d, d) for d in DATASET_ORDER], fontsize=12)
     ax.tick_params(axis="y", labelsize=11)

diff --git a/scripts/paper_figures/plot_attndir_panelB_direction.py b/scripts/paper_figures/plot_attndir_panelB_direction.py
@@ -25,6 +25,7 @@ import numpy as np
 
 IN_CSV = "aaai2027/figure_data/attndir_panelBC_summary.csv"
 SE_CSV = "aaai2027/figure_data/attndir_panelBC_se.csv"
+YLIM_INCLUDE_ERR = False  # True: y-axis leaves room for the error bars (thesis: larger across-model std bars)
 OUT_PNG = "aaai2027/figures/attndir_panelB_direction.png"
 
 DATASET_ORDER = ["bitcoin-alpha", "bitcoin-otc", "epinions", "slashdot090221", "wiki-elec", "wiki-rfa"]
@@ -60,7 +61,8 @@ def main():
         ax.text(bar.get_x() + bar.get_width() / 2, bar.get_height() + 0.008,
                  f"{bar.get_height():.3f}", ha="center", va="bottom", fontsize=10)
 
-    ax.set_ylim(0, max(fwd + bwd) * 1.2)
+    top = max(v + e for v, e in zip(fwd + bwd, fwd_err + bwd_err)) * 1.25 if YLIM_INCLUDE_ERR else max(fwd + bwd) * 1.2
+    ax.set_ylim(0, top)
     ax.set_xticks(x)
     ax.set_xticklabels([DISPLAY_LABEL.get(d, d) for d in DATASET_ORDER], fontsize=12)
     ax.tick_params(axis="y", labelsize=11)

diff --git a/experiments/edge_identity_tokens/make_thesis_figures.py b/experiments/edge_identity_tokens/make_thesis_figures.py
@@ -54,6 +54,7 @@ def attention_figure():
     import plot_shap_edge_directionality as d
     a.IN_CSV, a.OUT_PNG = os.path.join(DATA, "attndir_panelA_headgrid.csv"), os.path.join(FIG, "attndir_panelA_headgrid.png")
     for mod, name in ((b, "attndir_panelB_direction.png"), (c, "attndir_panelC_nodeedge.png")):
+        mod.YLIM_INCLUDE_ERR = True  # error bars are std across the 10 models, taller than WSDM's SEs
         mod.IN_CSV = os.path.join(DATA, "attndir_panelBC_summary.csv")
         mod.SE_CSV = os.path.join(DATA, "attndir_panelBC_se.csv")
         mod.OUT_PNG = os.path.join(FIG, name)

diff --git a/thesis/REWRITE_CHECKLIST.md b/thesis/REWRITE_CHECKLIST.md
@@ -17,18 +17,18 @@ Status: TODO / PROPOSED / APPROVED+APPLIED / NO CHANGE
 | 6 | Methods: 6a walk encoding, 6b embedding (+unknown-edge identity sentence), 6c target hides identity, 6d edge-identity replacement, 6e leakage paragraph (minimal: "edge token (identity and sign)", "sign and identity hidden"), 6f algorithm line, 6g schematic legend "positive/negative edge" | DISCUSS | APPROVED+APPLIED 2026-10-19 |
 | 7 | Setup paragraph (no hyperparam table exists): added EID settings sentence (rank 16, replace 0.2/70% unk, wd 0.03) | add EID params | APPROVED+APPLIED 2026-10-19 |
 | 8 | Statistical evaluation paragraph | check (new ablations state their test inline, as WSDM does) | NO CHANGE (approved 2026-10-19) |
-| 9 | Empirical evidence (Fig 1) | check | TODO |
-| 10 | Table 1 | numbers | TODO |
-| 11 | Entropy heatmap section | numbers | TODO |
-| 12 | Abl: proximal attention | numbers | TODO |
-| 13 | Abl: aggregator | numbers | TODO |
-| 14 | Abl: single walk | numbers | TODO |
-| 15 | Abl: direction flip | numbers | TODO |
-| 16 | New abl: visibility grid (table) | DISCUSS | TODO |
-| 17 | New abl: sign scramble / identity scramble | DISCUSS | TODO |
-| 18 | New abl: pair-only attention | DISCUSS | TODO |
-| 19 | Complexity | 1 sentence (identity table params) | TODO |
-| 20 | Attention section (+ SHAP removal option) | DISCUSS | TODO |
-| 21 | Full proofs | check | TODO |
+| 9 | Empirical evidence (Fig 1) | check (data/baseline-only, no Pewter mention) | NO CHANGE (approved 2026-10-19) |
+| 10 | Table 1: 10a Pewter rows (H3) APPLIED; 10b rule sentence -> local attention headline + results sentence (3.3, +0.9 wiki-elec to +4.8 b-alpha) APPLIED; 10c intro paragraph "edge tokens", "sign and identity" APPLIED. deferred sentence -> "conditioned directly on nearby vertices and edges" (O1, 2026-10-20) | numbers | APPROVED+APPLIED |
+| 11 | Entropy heatmap section: figure already H3; regression rerun on H3 (eid_delta_regression.py) - text claims still exact (otc both axes, epinions source, p<0.01); "most bins" = 64/87 pooled | numbers | NO CHANGE (approved 2026-10-19) |
+| 12 | Abl: proximal attention (H3 vs H3_FULL; local wins 4/6; dropped "order of magnitude below std"; "at most 0.003") | numbers | APPROVED+APPLIED 2026-10-19 |
+| 13 | Abl: aggregator: 13a table rows (H3) + caption 0.0025; 13b paragraph: 0.0025, std clause dropped, Fisher best on 4 | numbers | APPROVED+APPLIED 2026-10-19 |
+| 14 | Abl: single walk: "under 1.3pp" (b-alpha 1.28); fixed WSDM glitch "AUC rises only slightly"; other claims hold | numbers | APPROVED+APPLIED 2026-10-19 |
+| 15 | Abl: direction flip: H3 numbers; significant 5/6, b-alpha n.s. (p=0.14), one-sided as WSDM | numbers | APPROVED+APPLIED 2026-10-19 |
+| 16 | New abl: visibility grid: paragraph (F5, one-sided, + dirflip ref) + table (V/I/S columns, option 5 for now) after dirflip | DISCUSS | APPROVED+APPLIED 2026-10-20 (header style may revisit: option 3 two-level "Visible") |
+| 17 | sign scramble / identity scramble: LEFT OUT. Identity scramble = consistent relabeling in train+eval -> no information removed, null by construction (design flaw). Sign scramble = informationally same as grid row "signs hidden" (also scrambled in training) | DISCUSS | NO CHANGE (approved 2026-10-20) |
+| 18 | New abl: pair-only attention: P2 paragraph (facts + embeddings-carry-most sentence) after grid table | DISCUSS | APPROVED+APPLIED 2026-10-20 |
+| 19 | Complexity: 19a param sentence DROPPED (vertex table never mentioned either); 19b "4 to 70 minutes" (same rule as WSDM: shortest-longest single run) | numbers | APPROVED+APPLIED 2026-10-20 |
+| 20 | Attention section: 20a figure B-D = mean over 10 models +-std (A1: panel A split 42), SHAP removal = identity+sign; 20b fwd/bwd paragraph APPLIED (option ii, ending trimmed); 20c vertex/edge APPLIED (descriptive); 20d SHAP APPLIED (decay + hop-1 direction + agreement); 20e caption, 20f abstract 1b | DISCUSS | IN PROGRESS |
+| 21 | Full proofs | check (pure math; only Pewter mention is the aggregator table caption, done in 13) | NO CHANGE (approved 2026-10-20) |
 | 22 | Discussion / limitations | DISCUSS (small) | TODO |
 | 23 | Ethics | check | TODO |

diff --git a/experiments/edge_identity_tokens/THESIS_PLAN_20261013.md b/experiments/edge_identity_tokens/THESIS_PLAN_20261013.md
@@ -145,3 +145,10 @@ attention+SHAP figure needs EID port; new grid figure; pipeline schematic redraw
   -> the WSDM attention paragraphs need their dataset lists rewritten, not just numbers.
 - Bump dedup: see outputs/topology_mi_vs_distance/FINDINGS.md (slashdot-undirected and
   wiki-directed bumps are real, not reuse; bitcoin far hops are artifacts).
+
+## 11. Note 2026-10-20: identity-scramble ablation is uninformative by construction
+`model.scramble_edge_identity` maps every edge to a fixed substitute identity (a derangement) consistently
+in training AND evaluation -> a pure relabeling of identity-table rows, no information removed; its null
+result is guaranteed. A valid test would scramble at evaluation only, or re-randomize per occurrence.
+Sign scramble (fixed 50% liars, train+eval) makes the presented sign independent of the true sign ->
+equivalent to hiding context signs (grid row "vertices + identities"). Both left out of the thesis.
